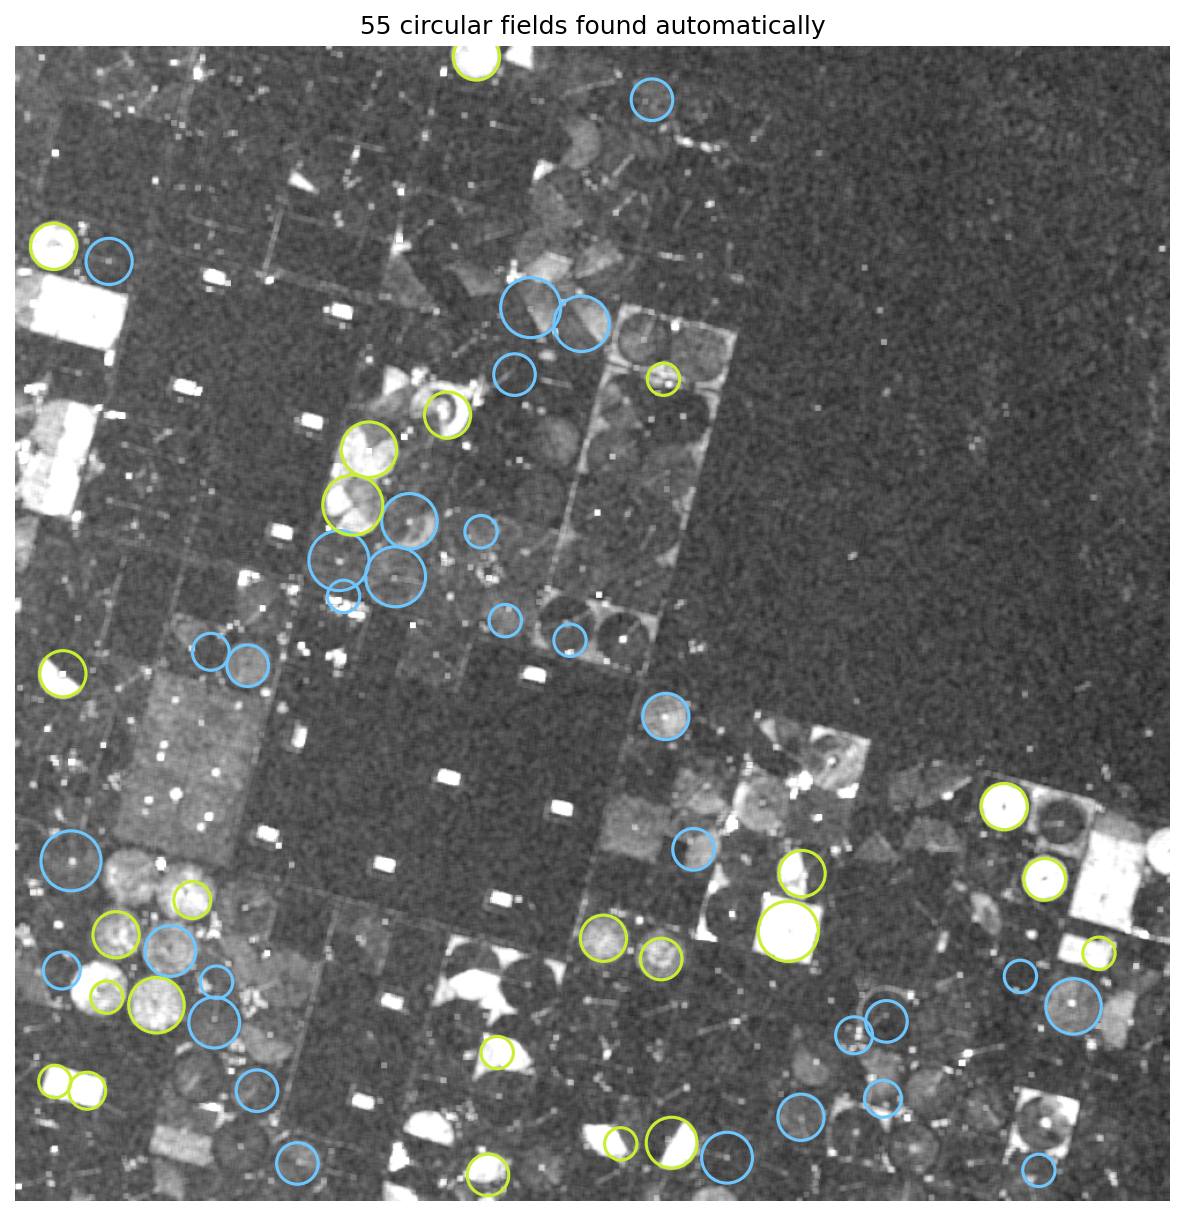
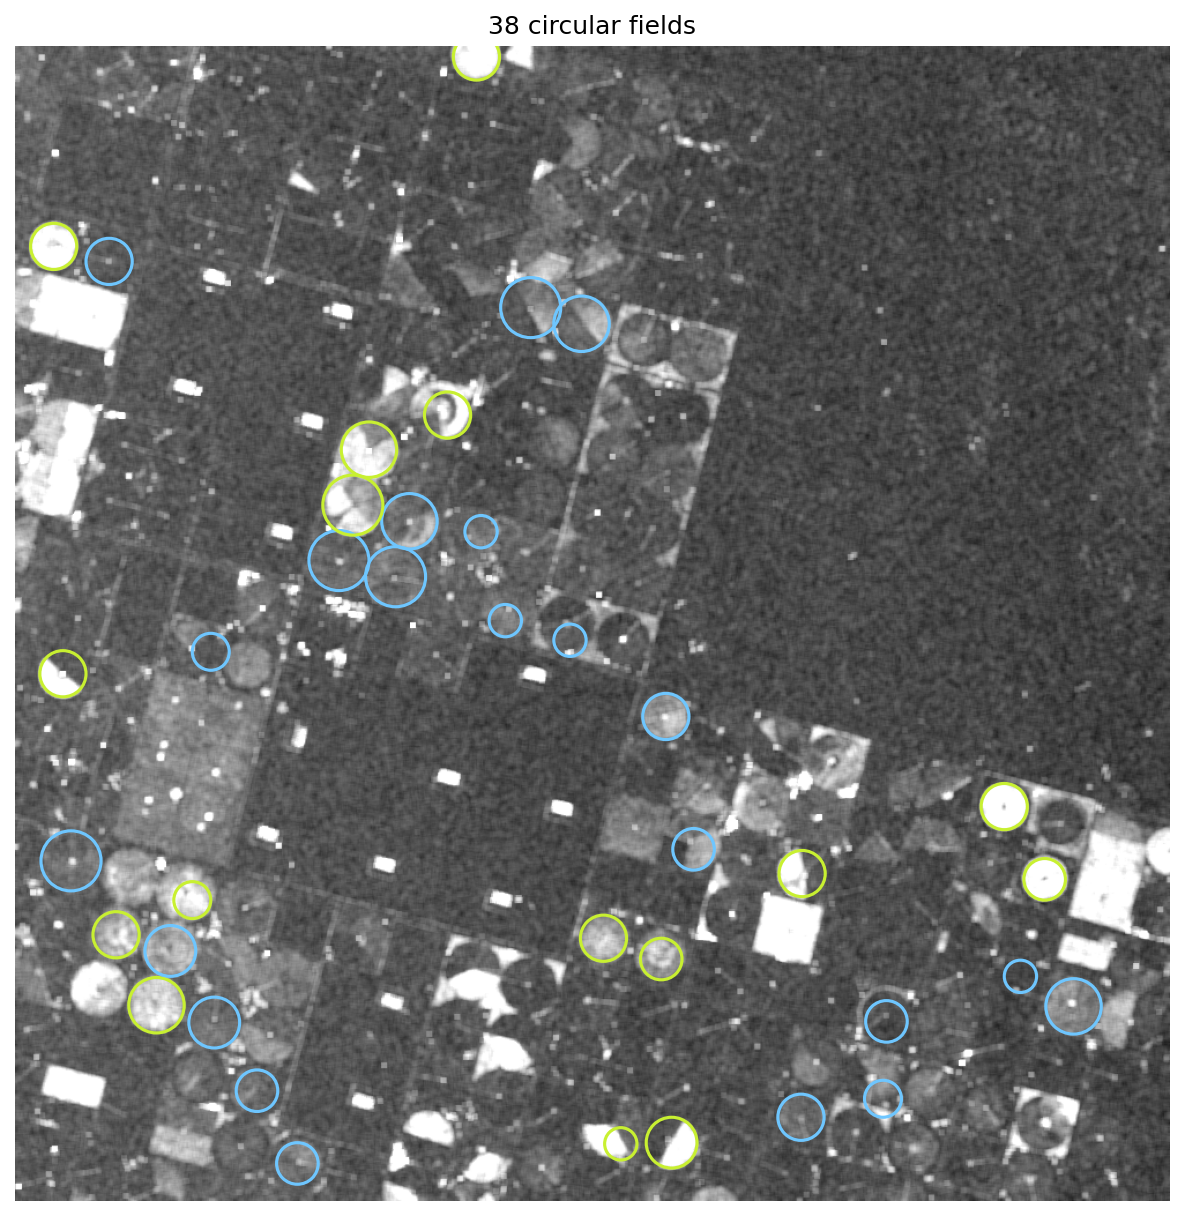
Add files via upload

diff --git a/index (7).html b/index (7).html
@@ -1,0 +1,267 @@
+<!DOCTYPE html>
+<html lang="en">
+<head>
+<meta charset="UTF-8">
+<meta name="viewport" content="width=device-width, initial-scale=1">
+<title>Echofield: radar that watches desert farms change</title>
+<!--
+  Echofield, NASA Space Apps Challenge 2026, challenge: Dancing with the SARs.
+  Team: Waselah (Waselah AlAmoudi), Jeddah.
+  AI disclosure: the HTML, CSS and JavaScript of this page were written with
+  the help of an AI assistant (Claude). The analysis choices, the reading of
+  the results and the design decisions are the author's.
+-->
+<style>
+  :root {
+    --bg: #0e1410;
+    --panel: #151d17;
+    --line: #26332a;
+    --text: #e8efe6;
+    --muted: #9fb0a0;
+    --grow: #c8f031;   /* vegetation gained */
+    --lost: #6ec6ff;   /* vegetation lost */
+  }
+  * { box-sizing: border-box; }
+  body {
+    margin: 0;
+    background: var(--bg);
+    color: var(--text);
+    font-family: system-ui, -apple-system, "Segoe UI", Roboto, Arial, sans-serif;
+    line-height: 1.6;
+  }
+  main { max-width: 980px; margin: 0 auto; padding: 0 20px 80px; }
+  header { padding: 72px 0 40px; border-bottom: 1px solid var(--line); }
+  .kicker { color: var(--grow); letter-spacing: 0.14em; text-transform: uppercase; font-size: 13px; }
+  h1 { font-size: clamp(44px, 9vw, 84px); margin: 8px 0 12px; letter-spacing: -0.02em; line-height: 1; }
+  h1 span { color: var(--grow); }
+  .lead { font-size: 20px; color: var(--text); max-width: 720px; }
+  .meta { color: var(--muted); font-size: 14px; margin-top: 18px; }
+  h2 { font-size: 28px; margin: 64px 0 8px; }
+  h3 { font-size: 18px; margin: 0 0 6px; }
+  p { margin: 10px 0; }
+  .muted { color: var(--muted); }
+  .grow { color: var(--grow); }
+  .lost { color: var(--lost); }
+
+  .panel { background: var(--panel); border: 1px solid var(--line); border-radius: 14px; padding: 20px; margin-top: 18px; }
+  .radar { width: 100%; display: block; border-radius: 8px; }
+  .controls { display: flex; align-items: center; gap: 14px; margin-top: 14px; flex-wrap: wrap; }
+  .date { font-size: 22px; font-weight: 600; color: var(--grow); min-width: 150px; }
+  input[type=range] { flex: 1; min-width: 180px; accent-color: var(--grow); }
+  button {
+    background: var(--grow); color: #10160f; border: 0; border-radius: 999px;
+    padding: 9px 18px; font-weight: 600; font-size: 15px; cursor: pointer;
+  }
+
+  .compare { position: relative; }
+  .compare img { width: 100%; display: block; border-radius: 8px; }
+  .compare .top { position: absolute; left: 0; top: 0; }
+  .tags { display: flex; justify-content: space-between; font-size: 14px; color: var(--muted); margin-top: 8px; }
+
+  .numbers { display: grid; grid-template-columns: repeat(auto-fit, minmax(200px, 1fr)); gap: 14px; margin-top: 18px; }
+  .num { background: var(--panel); border: 1px solid var(--line); border-radius: 14px; padding: 18px; }
+  .num b { display: block; font-size: 34px; line-height: 1.1; color: var(--grow); }
+  .num.b b { color: var(--lost); }
+  .num span { color: var(--muted); font-size: 14px; }
+
+  .chart { background: #fff; border-radius: 10px; padding: 8px; margin-top: 12px; }
+  .chart img { width: 100%; display: block; }
+  .key { display: flex; gap: 18px; flex-wrap: wrap; font-size: 14px; margin-top: 10px; }
+  .dot { display: inline-block; width: 12px; height: 12px; border-radius: 50%; margin-right: 6px; vertical-align: -1px; }
+  ul { padding-left: 20px; }
+  li { margin: 6px 0; }
+  footer { margin-top: 72px; padding-top: 24px; border-top: 1px solid var(--line); color: var(--muted); font-size: 14px; }
+  a { color: var(--grow); }
+</style>
+</head>
+<body>
+<main>
+
+<header>
+  <div class="kicker">NASA Space Apps Challenge 2026 · Dancing with the SARs</div>
+  <h1>Echo<span>field</span></h1>
+  <p class="lead">Radar from space, watching desert farms switch on and off. Echofield uses NASA-ISRO NISAR radar to show which fields in northern Saudi Arabia grew, which were cut, and when.</p>
+  <p class="meta">Team Waselah · Waselah AlAmoudi · Jeddah, Saudi Arabia</p>
+  <img src="context.png" alt="Center-pivot farms of the Basaita area, Al Jouf, seen from space" style="width:100%;display:block;border-radius:14px;margin-top:28px;">
+  <p class="muted" style="font-size:13px;margin-top:6px;">The Basaita farms in Al Jouf. Imagery: Google Earth, 2021. This photo shows the area for context only and is not part of the radar analysis.</p>
+</header>
+
+<section>
+  <h2>Research question</h2>
+  <p>Al Jouf is called the breadbasket of Saudi Arabia. Its center-pivot farms draw on groundwater that does not refill, so knowing which fields are active, and when, matters for water and food security. This project asks whether spaceborne radar can show when these farms are active, and whether it can show something that an ordinary satellite photograph cannot.</p>
+</section>
+
+<section>
+  <h2>Study area and data</h2>
+  <p>The study area is a 20 km by 20 km window of center-pivot farms in the Basaita area of Al Jouf, near Tubarjal. The data is NISAR L-band Level 2 GCOV, taken from a single viewing geometry (track 71, frame 17, ascending) so that every date is seen from the same angle. Each pixel covers 20 m, and there are two channels. HV responds mainly to vegetation. HH responds mainly to the ground surface.</p>
+</section>
+
+<section>
+  <h2>Seasonal radar record, June to October 2026</h2>
+  <p class="muted">Nine NISAR acquisitions of the same area in the HV channel. Brighter means more vegetation. Move the slider or press play.</p>
+  <div class="panel">
+    <img id="season" class="radar" src="hv_2026-06-19.png" alt="NISAR HV radar image of the farm area">
+    <div class="controls">
+      <div id="label" class="date">Jun 19, 2026</div>
+      <input type="range" id="slider" min="1" max="9" value="1" aria-label="Choose a date">
+      <button id="play">Play</button>
+    </div>
+  </div>
+</section>
+
+<section>
+  <h2>Two-date comparison</h2>
+  <p class="muted">Drag to compare the first acquisition, June 19, with the last, October 17.</p>
+  <div class="panel">
+    <div class="compare">
+      <img src="hv_2026-10-17.png" alt="NISAR HV image, October 17 2026">
+      <img id="top" class="top" src="hv_2026-06-19.png" alt="NISAR HV image, June 19 2026" style="clip-path: inset(0 50% 0 0);">
+    </div>
+    <div class="controls">
+      <input type="range" id="cmp" min="0" max="100" value="50" aria-label="Compare the two dates">
+    </div>
+    <div class="tags"><span>June 19 on the left</span><span>October 17 on the right</span></div>
+  </div>
+</section>
+
+<section>
+  <h2>Change detection</h2>
+  <p>The two dates are subtracted in decibels, which is the same as taking the ratio of the two echo powers. To separate real change from noise, the noise was measured over empty desert, where nothing should change, and found to be 0.50 dB. A pixel is counted as changed only if it moved by more than 1.5 dB, three times that amount. The desert stays black in the map, which shows that the method is not inventing change.</p>
+  <div class="panel">
+    <img class="radar" src="change.png" alt="Change map between June 19 and October 17">
+    <div class="key">
+      <span><i class="dot" style="background:var(--grow)"></i>vegetation gained</span>
+      <span><i class="dot" style="background:var(--lost)"></i>vegetation lost</span>
+      <span><i class="dot" style="background:#000;border:1px solid var(--line)"></i>no change</span>
+    </div>
+  </div>
+
+  <div class="numbers">
+    <div class="num"><b>33</b><span>fields gained vegetation</span></div>
+    <div class="num b"><b>19</b><span>fields lost vegetation</span></div>
+    <div class="num"><b>24.6 km²</b><span>area that gained</span></div>
+    <div class="num b"><b>13.3 km²</b><span>area that lost</span></div>
+  </div>
+  <p>A field here is a connected group of changed pixels larger than 12 hectares. This map compares only the first date and the last date. A field that grew and was cut in between ends where it started, so it shows as black even though a lot happened there. For that reason Echofield also follows fields through every date.</p>
+</section>
+
+<section>
+  <h2>Field-level time series</h2>
+  <p>Each point below is the average of every pixel inside one field, measured against the desert on the same date. Averaging a whole field removes most of the speckle noise and gives one reliable value per field per date.</p>
+  <div class="chart"><img src="timeline_corrected.png" alt="Season timeline of two fields"></div>
+  <p>The <span class="lost">field that lost vegetation</span> dropped by 5.9 dB between July 25 and August 18, a fast change that is consistent with harvest. The <span class="grow">field that gained vegetation</span> was flat until July 1 and then rose steadily to a peak on September 11. Growth is gradual and harvest is abrupt, and the radar record shows both.</p>
+</section>
+
+<section>
+  <h2>What radar adds to a photograph</h2>
+  <p>Skies over Al Jouf are usually clear, so seeing through cloud is not the main advantage here. The advantage is that radar records two signals where a photograph records one, and the two respond to different things.</p>
+  <p>Radar is most sensitive to two properties of the ground: roughness and the dielectric constant. Water has a very high dielectric constant, so wetting the soil makes it reflect more strongly, and this shows up mainly in HH. Leaves and stems scatter the signal in many directions and change its polarization, which shows up mainly in HV. That is why the two channels can tell irrigation and plant growth apart in time.</p>
+  <div class="chart"><img src="two_channels.png" alt="HH and HV channels for the field that gained"></div>
+  <p>On the field that grew, the surface channel (HH) was close to its maximum by July 25. The vegetation channel (HV) did not peak until September 11, about seven weeks later. This is consistent with a field being irrigated and prepared first, with the crop building up afterwards.</p>
+</section>
+
+<section>
+  <h2>Active vegetated area</h2>
+  <div class="chart"><img src="active_area.png" alt="Active vegetated area per date"></div>
+  <p>Counting pixels more than 4 dB above the desert as vegetated, active area in the window grew from 19.4 km² on June 19 to 29.1 km² on October 5. The exact size depends on where that line is drawn, so the result was tested at 3 dB and 5 dB as well. The growth held at all three settings, between about one third and two thirds. Buildings, which are always very bright in the HH channel, were excluded.</p>
+</section>
+
+<section>
+  <h2>Automatic field detection</h2>
+  <p>Instead of choosing fields by hand, Echofield finds the circular fields itself. For every pixel it takes the most vegetated value reached during the season, so every field that was farmed at any point shows up as a bright disc. An edge detector traces the outlines of those discs, and a Hough circle transform searches the outlines for circles between 0.6 and 1.2 km across. A circle is kept only if its inside was vegetated at some point in the season.</p>
+  <div class="chart"><img src="fields_detected.png" alt="Circular fields detected automatically"></div>
+  <p>The detector proposed 55 candidate circles. Each was checked by eye against fixed rules, rejecting any circle that sat on a rectangular plot, did not sit on a field, overlapped another circle, or was much smaller than its field. 38 passed, about 69% of the candidates. Following the confirmed fields through the season, the number of active fields rose from 4 on June 19 to a peak of 17 on October 5. This agrees with the area result above, measured a different way. Chartreuse circles were active on October 17 and sky blue circles were not.</p>
+  <p class="muted">The detector does not find every field. It misses fields that touch their neighbours and fields with faint or patchy edges, and a few circles overlap or sit inside a larger field. The counts are best read as a trend for the detected fields, not a full census.</p>
+</section>
+
+<section>
+  <h2>Optical validation</h2>
+  <p>To test whether the radar signal follows real vegetation, it was compared with an independent sensor. NASA's Harmonized Landsat and Sentinel-2 (HLS) product gives optical images of the same farms, and from those NDVI was computed, a standard measure of how green a field is. For each radar date the analysis used the clearest optical scene within 6 days. All 9 dates were matched to a cloud-free scene taken 0 to 1 day from the radar pass, and NDVI was sampled at exactly the same pixels as the radar.</p>
+  <div class="chart"><img src="ndvi_validation.png" alt="Radar HV and optical NDVI for the two example fields"></div>
+  <p>On the <span class="lost">field that lost vegetation</span>, both sensors peak on July 25 and drop by August 18, with NDVI falling from 0.53 to 0.29. An independent satellite confirms the harvest timing. On the <span class="grow">field that gained vegetation</span>, NDVI rose from 0.19 to 0.48 and peaked in late August, then fell to about 0.2, while radar stayed high until October 5. One likely explanation, not yet tested, is that the crop matured and dried. It would then lose its green colour while keeping the structure that radar responds to.</p>
+  <div class="chart"><img src="ndvi_scatter.png" alt="Radar HV against NDVI for all confirmed fields and dates"></div>
+  <p>Across the 38 confirmed fields and 9 dates (342 field-date pairs), radar and NDVI have a Spearman correlation of 0.50, a moderate positive relationship. Classified as active or inactive (radar above 4 dB, NDVI above 0.3), the two agree 58% of the time. Most disagreements are fields that look green optically but stay below 4 dB in radar. L-band has a long wavelength and passes through short or young plants, so it sees little vegetation there. The two sensors agree on direction and timing and differ where they measure different things: greenness for NDVI, structure and water for radar. The 4 dB threshold was set from the radar before this check and was not adjusted to match NDVI.</p>
+</section>
+
+<section>
+  <h2>Method</h2>
+  <p>Only the farm window is read from NASA's cloud archive, so each date loads in about 20 seconds without downloading the full 1.8 GB file. Speckle is reduced with a 5 by 5 average and values are converted to decibels. Every date is measured against the same patch of empty desert, which removes small offsets between acquisitions. The analysis is written in Python and runs in Google Colab.</p>
+</section>
+
+<section>
+  <h2>Limitations</h2>
+  <p>Radar shows how much vegetation is present and when it changes, but it cannot identify the crop. NISAR revisits every 12 days and the August 6 pass is missing, so an event can only be dated to a window. The September 23 acquisition has no HV channel and was left out. The HH channel also responds to growing stalks, so it is not a pure water signal. The products are provisional, and L-band is weak at detecting very young, short crops, which is the likely reason for most of the disagreement with NDVI. Some large bright rectangular plots, possibly greenhouses or orchards, are counted as active area; they raise the absolute area but do not change the trend. The main winter wheat season falls outside this June to October window. The study covers one 20 km by 20 km sample of the Basaita farms, not all of Al Jouf.</p>
+</section>
+
+<section>
+  <h2>Next steps</h2>
+  <p>Many of these circular fields are planted and harvested in slices, so the next step is to track sectors inside each circle. After that come a more complete field detector that handles touching fields, and a full year of data.</p>
+  <p>Because NISAR images nearly all land every 12 days and its data is free, the same method could run across every farming region in Saudi Arabia. Water managers could use it to see which fields draw on groundwater and when, without relying on farmer surveys.</p>
+</section>
+
+<footer>
+  <p>Data: NASA-ISRO NISAR L2 GCOV provisional products, from the Alaska Satellite Facility DAAC through NASA Earthdata. Optical validation: NASA Harmonized Landsat and Sentinel-2 (HLS) surface reflectance, from the LP DAAC through NASA Earthdata. Tools: Python, h5py, rasterio, NumPy, SciPy, Matplotlib, earthaccess, Google Colab.</p>
+  <p>Use of AI: Claude helped write the Python and the code of this page, and helped with research. ChatGPT helped review the code. The radar images and charts come from NISAR data and are not AI generated.</p>
+  <p>Code: <a href="https://github.com/Alamoudyyw-afk/echofield">github.com/Alamoudyyw-afk/echofield</a></p>
+</footer>
+
+</main>
+
+<script>
+// The nine dates, in order. "file" is used in the image name, "show" is what people read.
+const dates = [
+  { file: "2026-06-19", show: "Jun 19, 2026" },
+  { file: "2026-07-01", show: "Jul 1, 2026" },
+  { file: "2026-07-13", show: "Jul 13, 2026" },
+  { file: "2026-07-25", show: "Jul 25, 2026" },
+  { file: "2026-08-18", show: "Aug 18, 2026" },
+  { file: "2026-08-30", show: "Aug 30, 2026" },
+  { file: "2026-09-11", show: "Sep 11, 2026" },
+  { file: "2026-10-05", show: "Oct 5, 2026" },
+  { file: "2026-10-17", show: "Oct 17, 2026" }
+];
+
+const slider = document.getElementById("slider");
+const label = document.getElementById("label");
+const season = document.getElementById("season");
+const play = document.getElementById("play");
+
+// Load every image once at the start so the slider does not flicker.
+dates.forEach(function (d) {
+  const img = new Image();
+  img.src = "hv_" + d.file + ".png";
+});
+
+// Show the date that matches the slider. The slider counts from 1, the array from 0.
+function showDate() {
+  const d = dates[slider.value - 1];
+  label.textContent = d.show;
+  season.src = "hv_" + d.file + ".png";
+}
+slider.addEventListener("input", showDate);
+
+// Play button: step forward one date every 0.8 seconds, and loop.
+let timer = null;
+play.addEventListener("click", function () {
+  if (timer) {
+    clearInterval(timer);
+    timer = null;
+    play.textContent = "Play";
+    return;
+  }
+  play.textContent = "Pause";
+  timer = setInterval(function () {
+    slider.value = slider.value >= dates.length ? 1 : Number(slider.value) + 1;
+    showDate();
+  }, 800);
+});
+
+// Before and after: hide part of the June image so October shows through.
+const cmp = document.getElementById("cmp");
+const topImg = document.getElementById("top");
+cmp.addEventListener("input", function () {
+  topImg.style.clipPath = "inset(0 " + (100 - cmp.value) + "% 0 0)";
+});
+</script>
+</body>
+</html>
